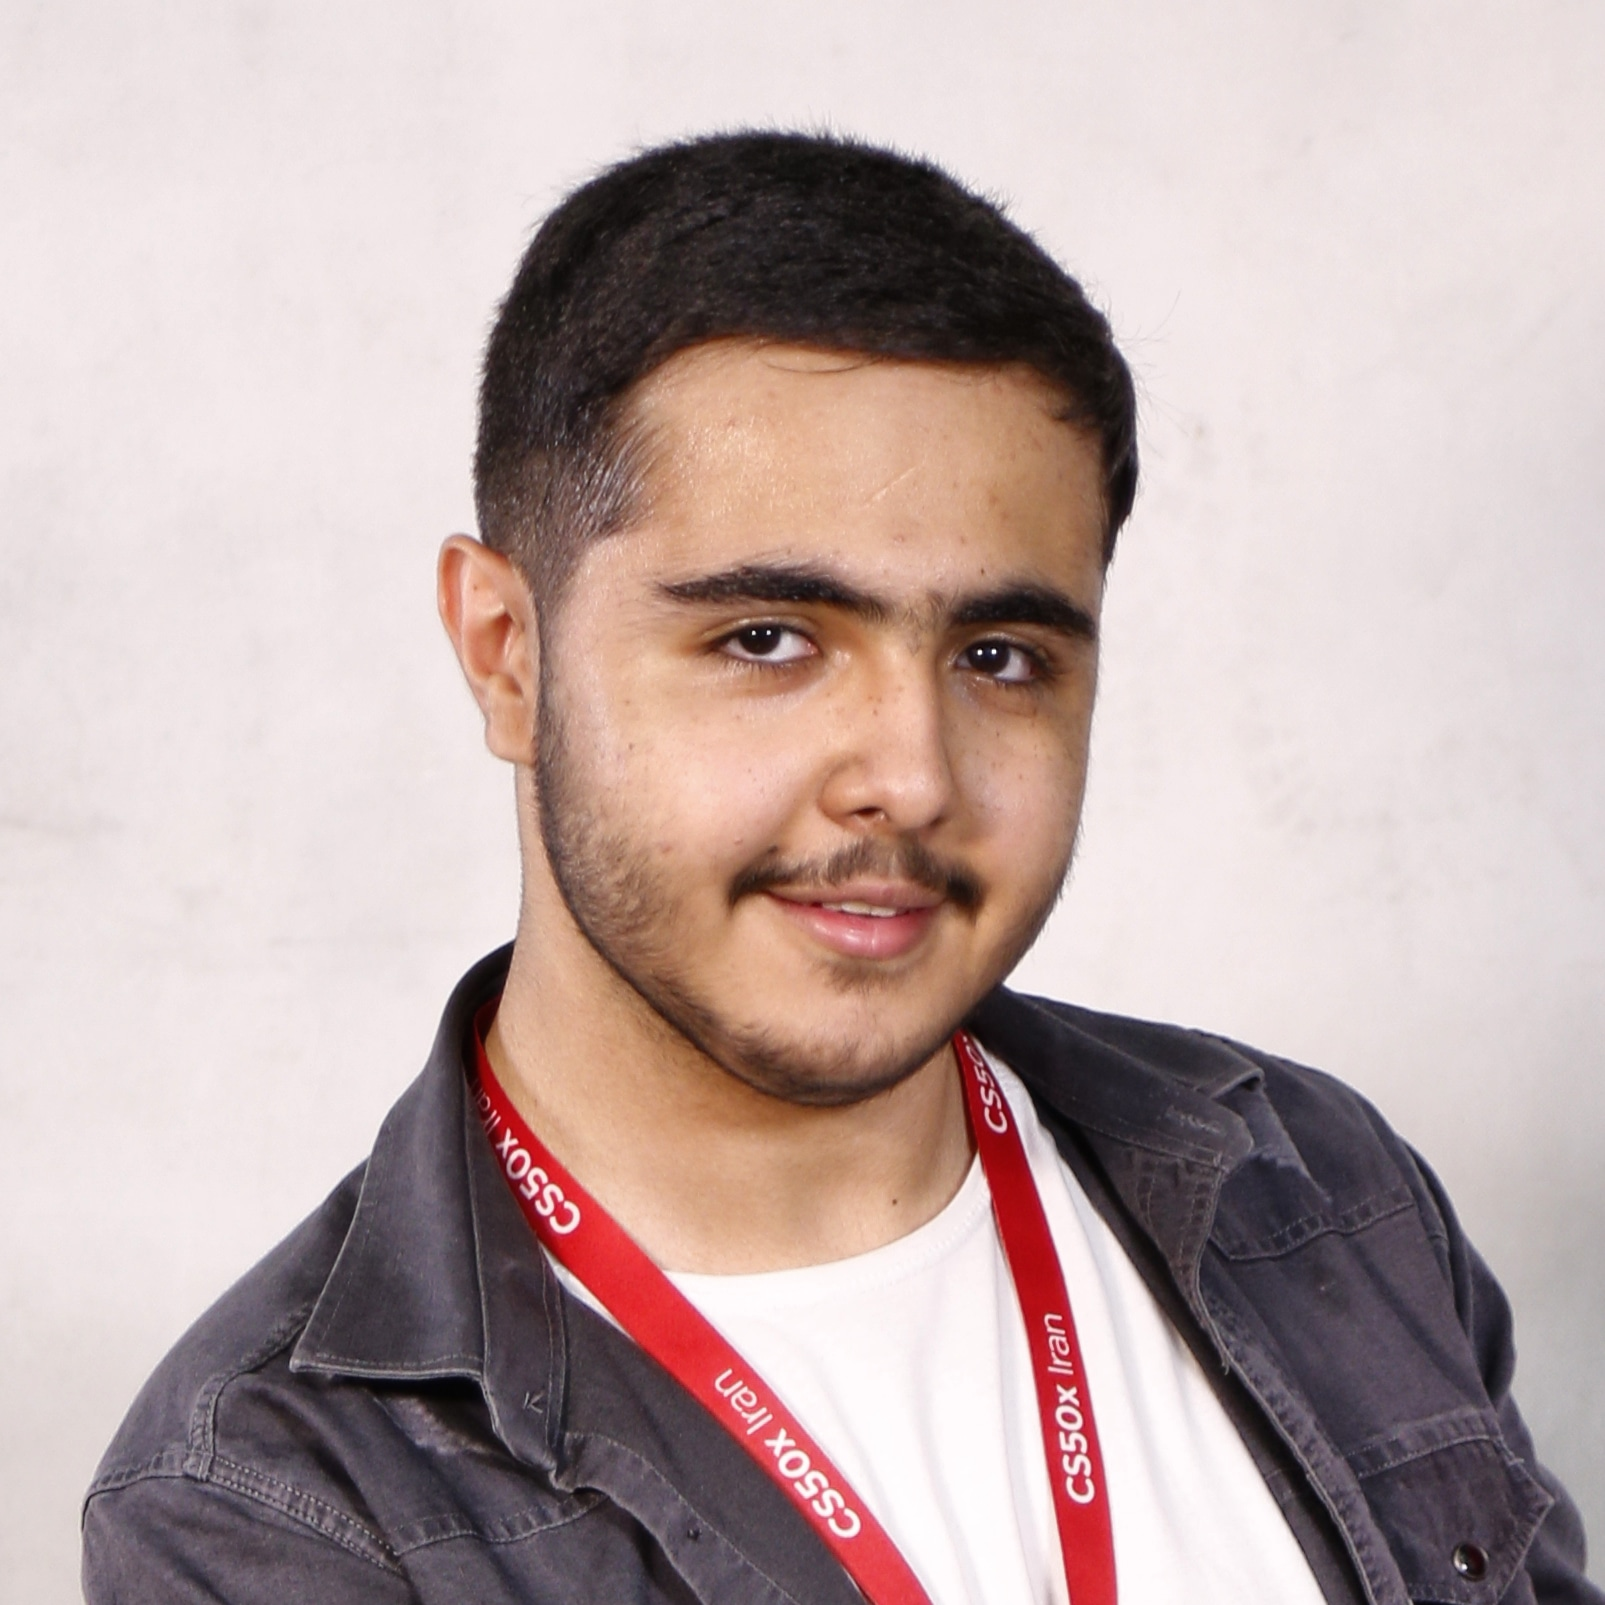
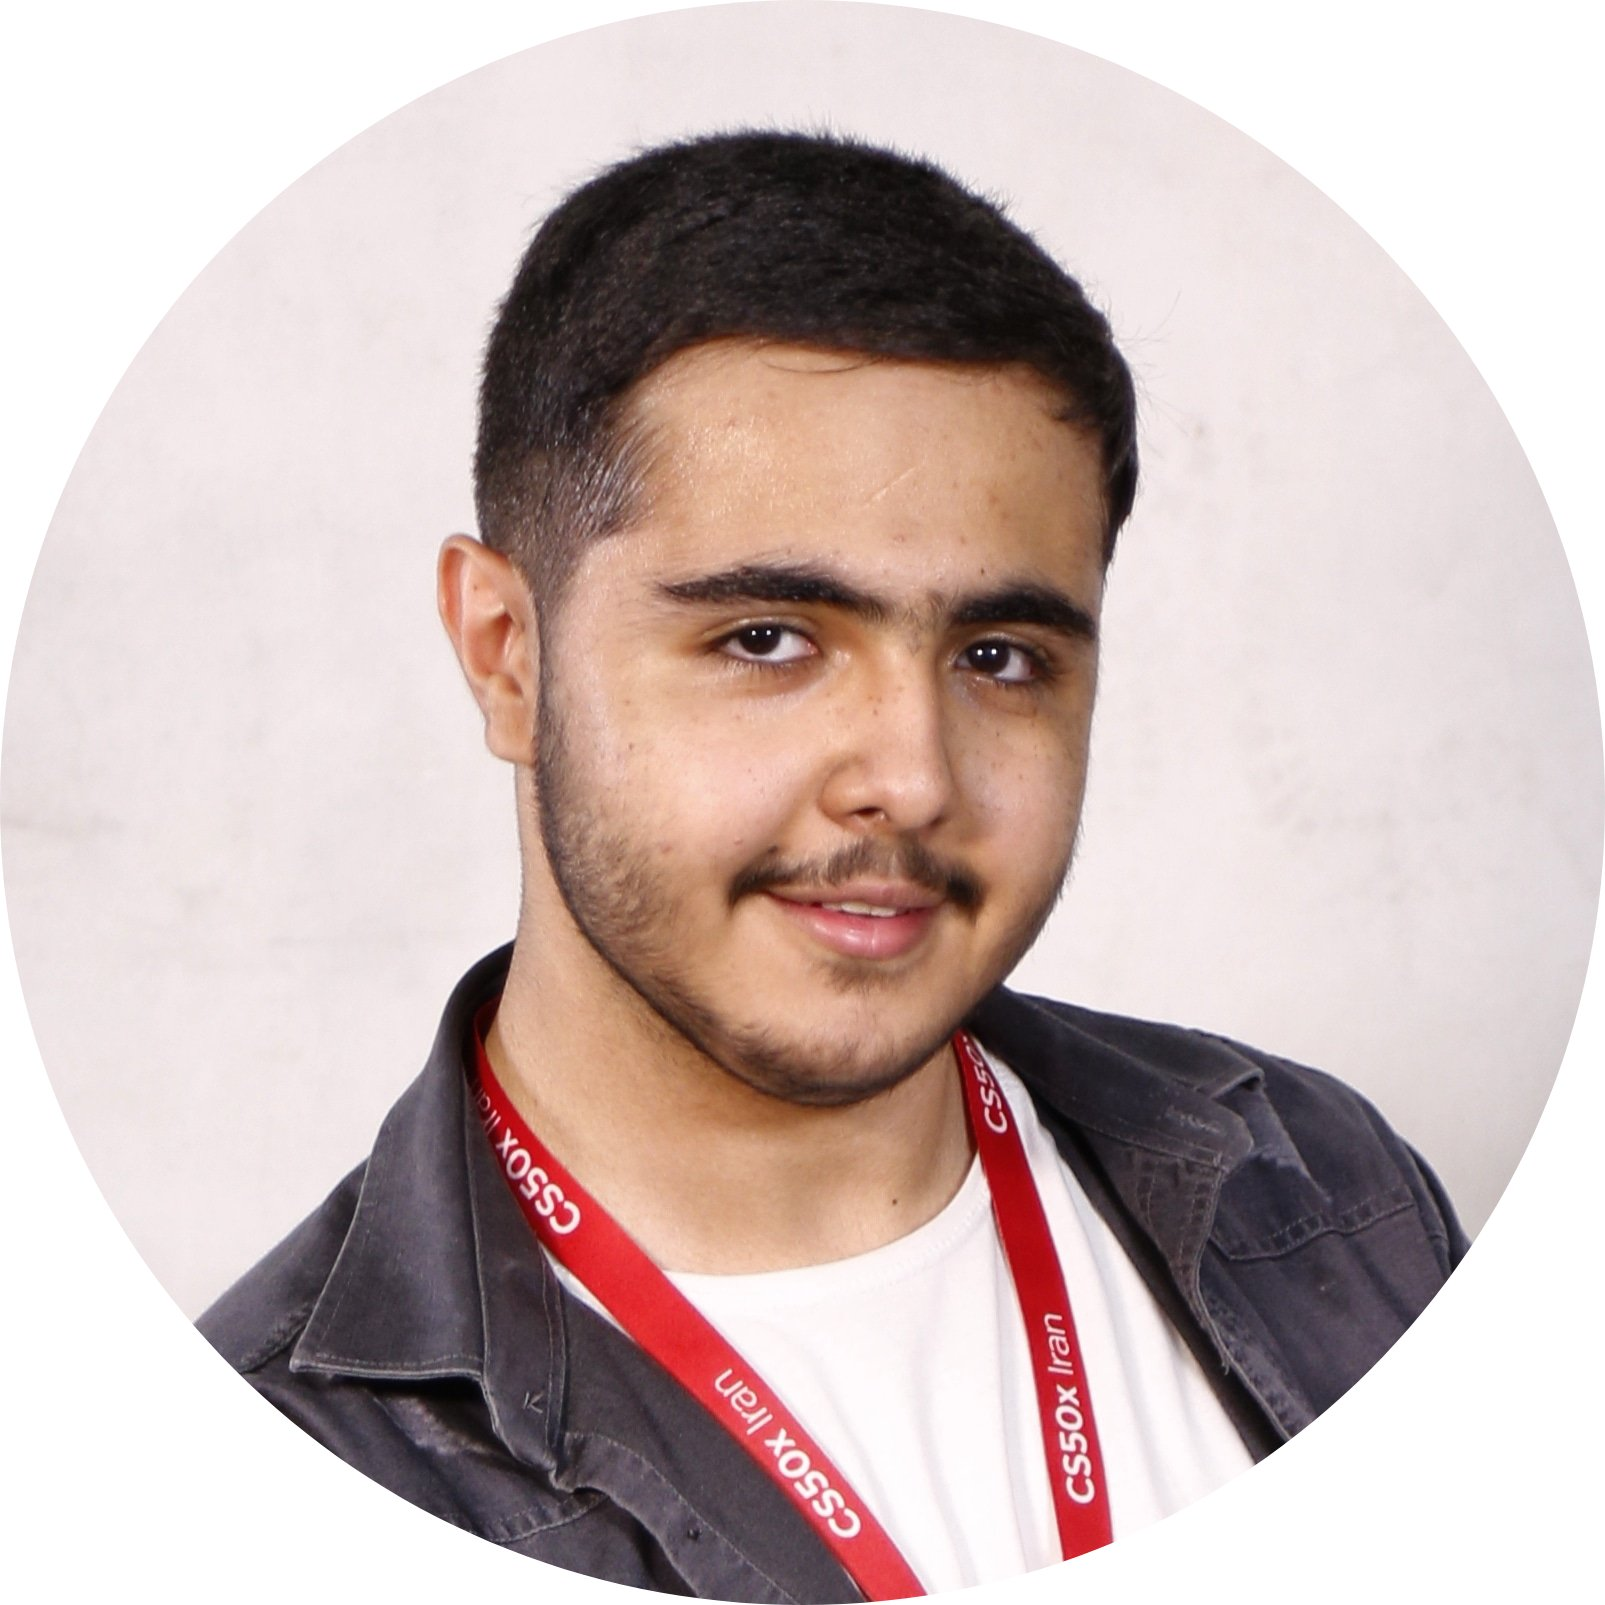
Test Edit Readme

diff --git a/README.md b/README.md
@@ -1,1 +1,3 @@
-<iframe width="100%" height="100%" src="./content.html"></iframe>
+<p align="center">
+<img src="./prf.jpg" width="200px" alt="Hossein Araghi"> 
+</p>
